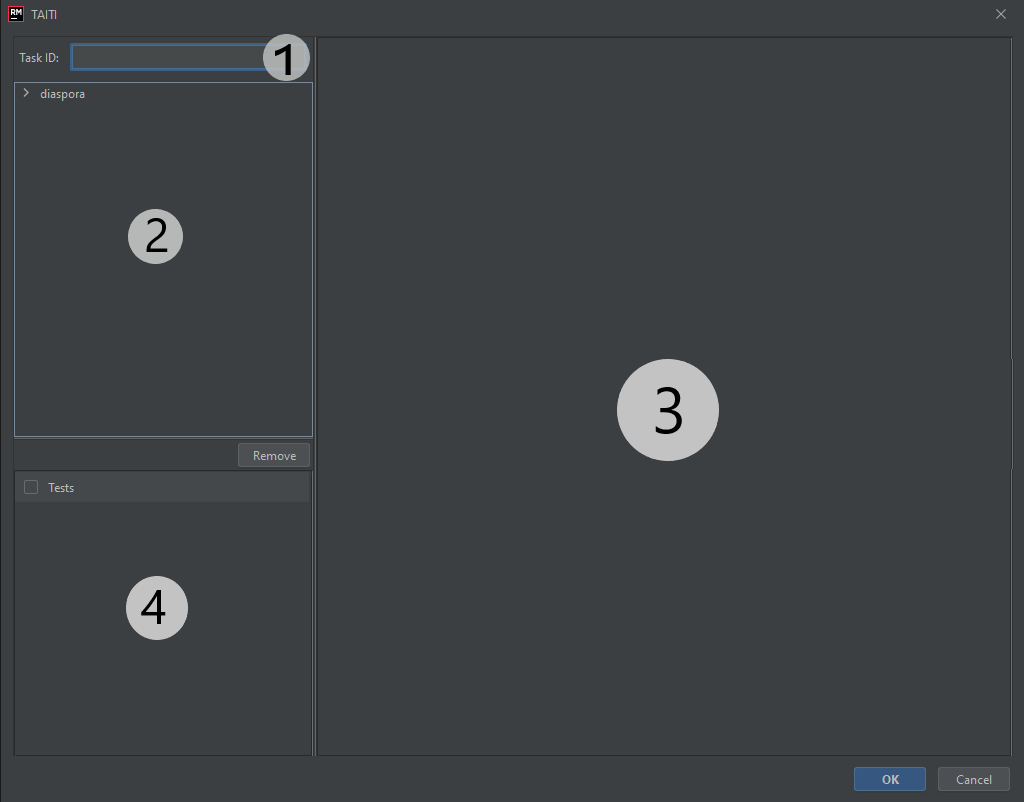
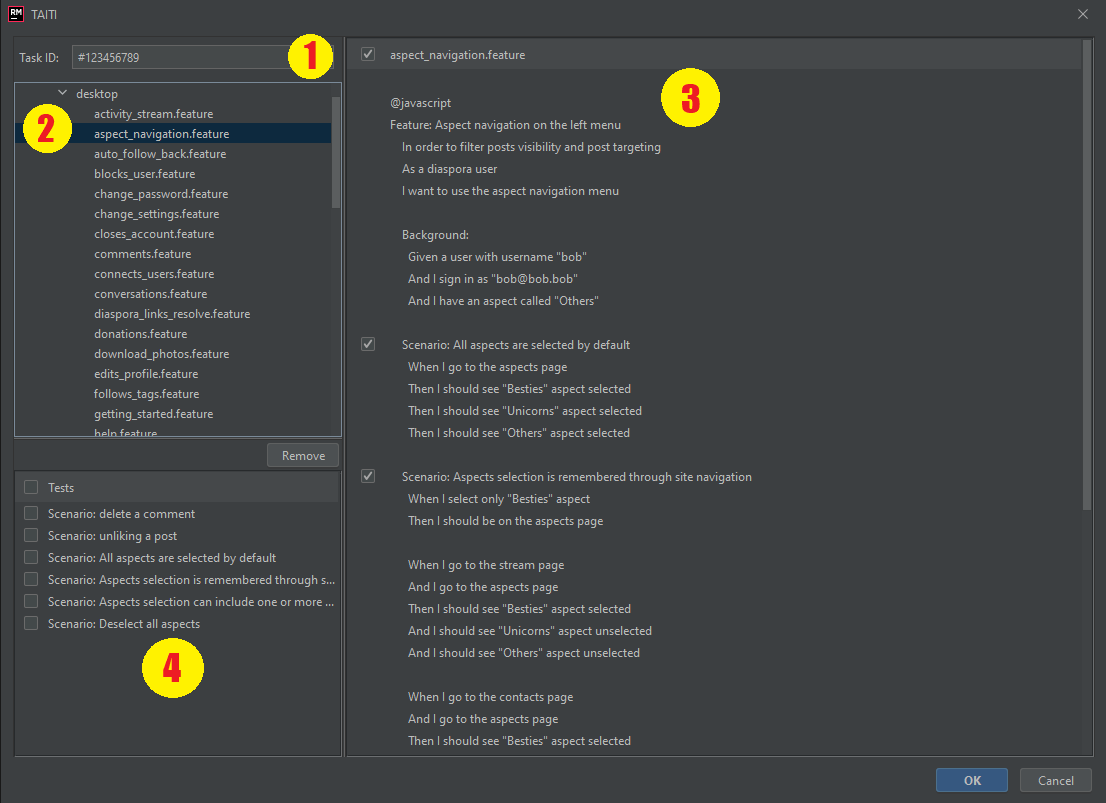
Atualizando README

diff --git a/README.md b/README.md
@@ -65,7 +65,7 @@ O item 3 exibe o arquivo <em>.feature</em> selecionado e o item 4 é uma tabela 
 
 <figure>
   <figcaption><em>Figura 6 - Tela de configuração de tarefa de programação do plugin TAITIr.</em></figcaption>
-  <img width="600px" alt="Tela Add do plugin" src="/doc/plugin_add3.png"/> 
+  <img width="600px" alt="Tela Add do plugin" src="/doc/plugin_add1.png"/> 
 </figure>
 
 Após informar o ID no item 1 e selecionar um arquivo <em>.feature</em> no item 2, sua tela fica parecida com a tela da Figura 6, na qual o arquivo selecionado é exibido ao centro e cada teste nele existente é identificado por um checkbox. Ao marcar o checkbox, você informa que o referido teste está relacionado à tarefa. 
@@ -77,7 +77,7 @@ Uma vez finalizada a seleção dos testes relacionados à tarefa, basta clicar e
 
 <figure>
   <figcaption><em>Figura 7 - Tarefa do PivotalTracker com anexo na aba Activity.</em></figcaption>
-  <img alt="Tela do plugin" src="/doc/pivotal.png"/> 
+  <img alt="Tela do plugin" src="/doc/pivotalimg.png"/> 
 </figure>
 
 ## Autores
